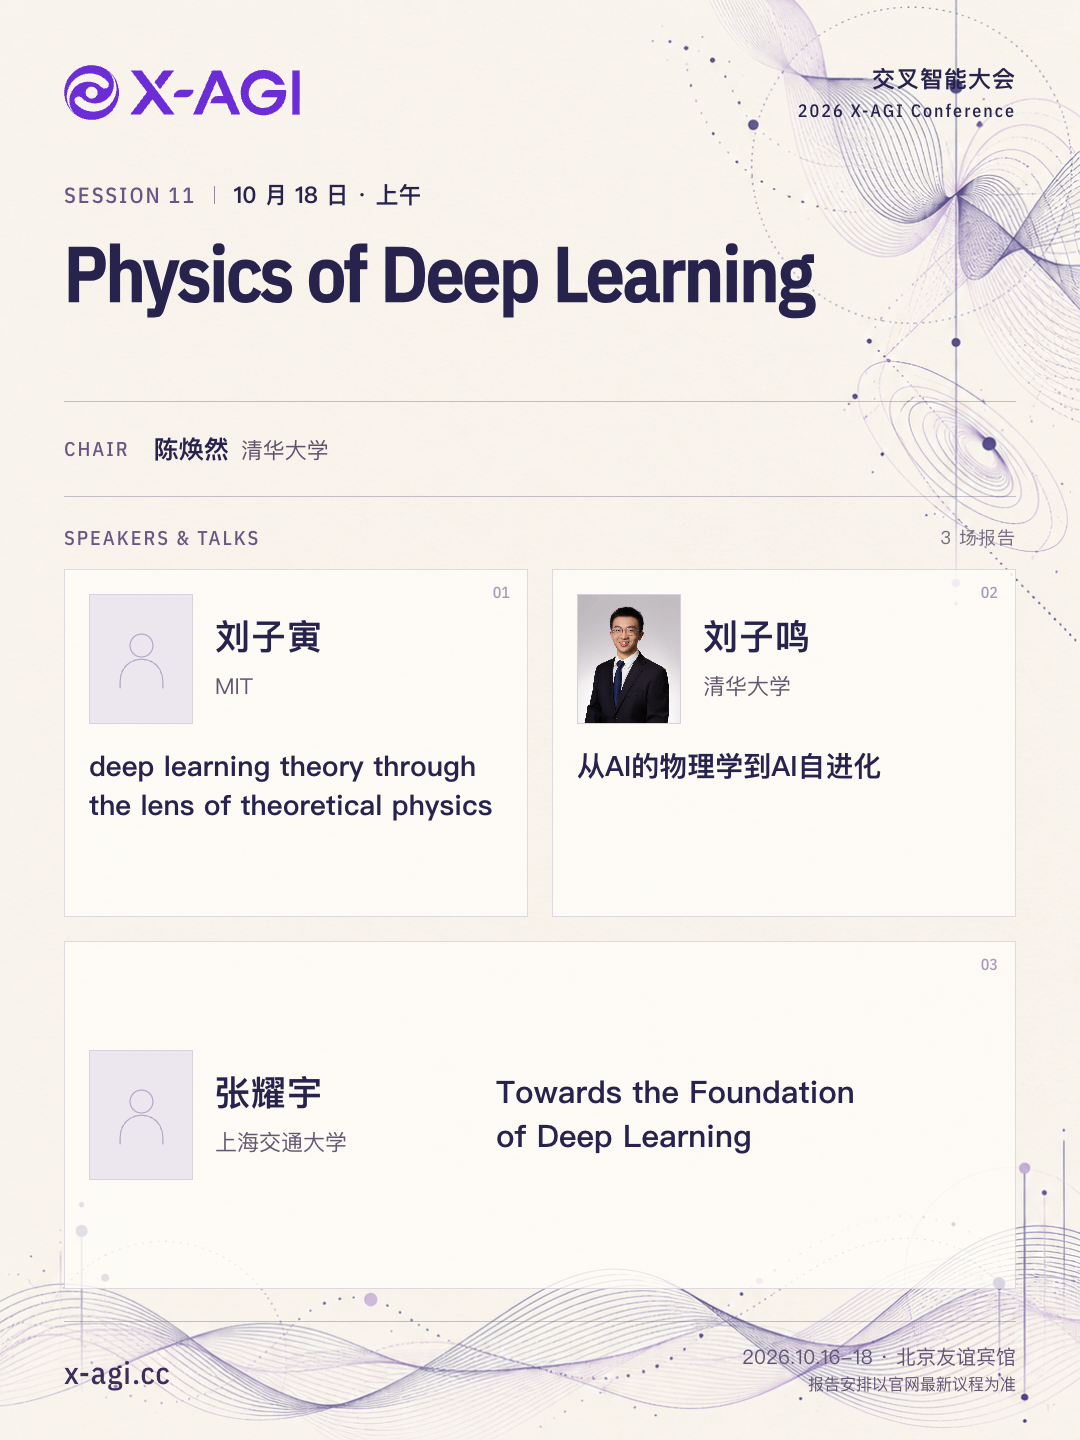
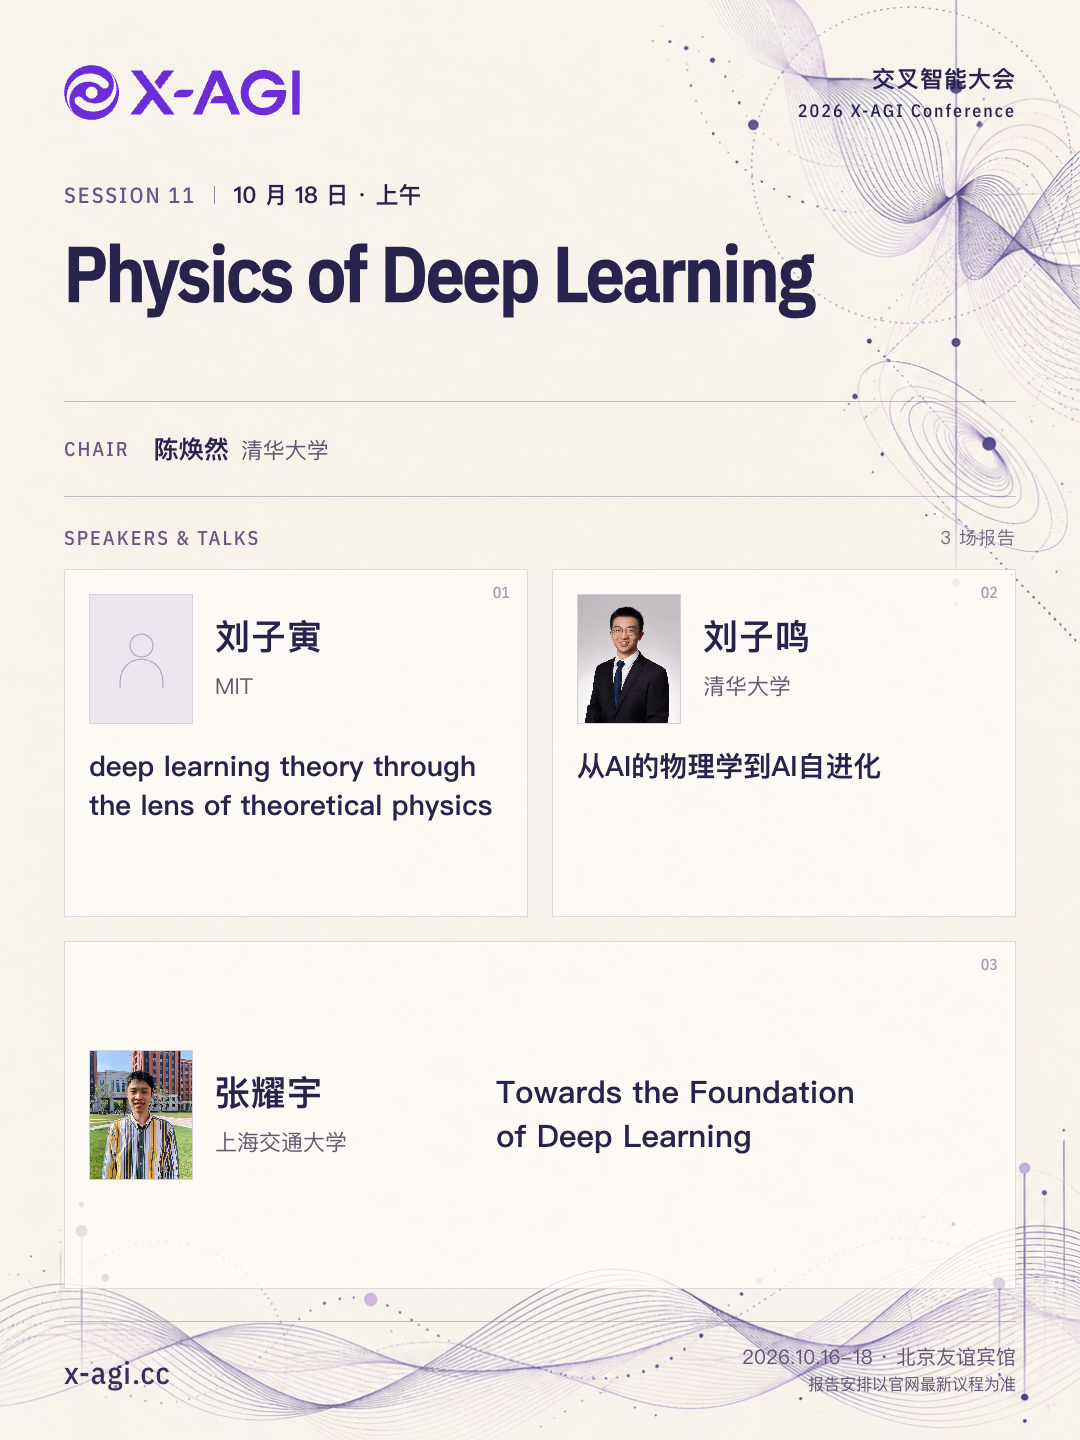
Complete attendee profiles and reconcile the official program (#35)

Changed region(s): [[0.0611, 0.7188, 0.1833, 0.8438]]

diff --git a/src/data/conference2026-people.generated.ts b/src/data/conference2026-people.generated.ts
@@ -20,7 +20,7 @@ export type Conference2026PersonSourceRecord = {
 
 export const conference2026PeopleSource = {
   "sheetName": "2026 X-AGI 大会",
[2 lines of base64/hex data omitted]
   "people": [
     {
       "id": "mao-xiaojie",
@@ -664,6 +664,34 @@ export const conference2026PeopleSource = {
       "abstract": "基于国内各类层次高校落地实践经验，聚焦未来学习中心核心场景，系统探究AGI技术在高校教学赋能、师生交互、教学评价督导、智慧终端应用中的落地路径。结合高校样板间打造、产品迭代优化与场景规模化复制的实战案例，剖析AI教育产品在高等教育场景中的适配逻辑、算力管控方案与落地难点，总结AGI赋能高等教育的有效范式。同时辩证思考人工智能教育应用的边界与价值，平衡技术创新与教育本质，为新时代高校AI教育生态建设、未来学习中心标准化落地与全域推广提供可落地、可复制的实践参考与行业新思路。",
       "hasSubmittedPortrait": true,
       "sourceOrder": 43
+    },
+    {
+      "id": "lu-yiping",
+      "name": "陆一平",
+      "aliases": [],
+      "roles": [
+        "chair"
+      ],
+      "affiliation": "北京大学",
+      "department": "国际数学研究中心",
+      "bio": "陆一平，北京大学北京国际数学研究中心助理教授。2019年本科毕业于北京大学应用数学专业，2023年于斯坦福大学获得应用数学博士学位；曾任纽约大学柯朗研究所柯朗讲师、美国西北大学工业工程与管理科学系助理教授。 他的研究主要聚焦于微分方程与深度学习的交叉领域，致力于将微分方程、随机过程和控制理论等经典领域与机器学习及随机实验进行深度融合。其代表性成果包括建立了微分方程与深度学习的联系，科学机器学习的最优样本复杂度，并于近期成功解决了困扰学术界长达35年的关于带符号BAR解（signed BAR solutions）唯一性的经典难题。 他曾获得 CPAL 新星奖、芝加哥大学数据科学新星奖、斯坦福跨学科研究生奖学金等多项荣誉，并长期担任 ICML、NeurIPS、ICLR 、 AISTATS 和AAAI等国际顶级机器学习会议的领域主席以及运筹学顶级期刊Mathematics of Operations Research的副编辑。",
+      "hasSubmittedPortrait": true,
+      "sourceOrder": 44
+    },
+    {
+      "id": "zhang-yaoyu",
+      "name": "张耀宇",
+      "aliases": [],
+      "roles": [
+        "speaker"
+      ],
+      "affiliation": "上海交通大学",
+      "department": "自然科学研究院、数学科学学院",
+      "bio": "张耀宇，上海交通大学长聘教轨副教授，2012年于上海交通大学致远学院获应用物理学学士学位及应用数学第二专业，2016年于上海交通大学数学科学学院获数学博士学位，2016年至2020年先后于纽约大学阿布扎比分校&库朗研究所、普林斯顿高等研究院从事博士后研究工作，2020年加入上海交通大学。他的研究领域聚焦深度学习的理论基础，代表性成果包括深度学习的凝聚现象与动力学态的相图分析、损失景观的嵌入原则、样本效率的乐观估计等。相关工作发表于JMLR、M3AS、SIMODS、NeurIPS、ICML等机器学习和应用数学权威期刊和会议，并合著出版《深度学习现象导论：从感知机到大模型》。",
+      "talkTitle": "towards the foundation of deep learning",
+      "abstract": "深度学习在过去十余年取得了令人瞩目的进展，但我们对其基本工作原理的理解仍远落后于工程实践。面对神经网络这样高度非线性、高维、强耦合的复杂系统，仅依赖自上而下的理论推导往往难以识别真正关键的结构与规律。本报告将从“现象驱动”的视角讨论深度学习基础研究的一种可能路径：通过简单、可控的实验系统观察训练过程，发现稳定且可复现的行为规律，构造合适的描述量，并进一步研究这些现象的适用边界、相互联系及其背后的机制。结合若干深度学习与语言模型中的代表性案例，我将讨论实验与现象研究如何作为一种相对独立的科学实践，与数学理论和工程研究相互促进，并进一步思考这些零散现象如何逐步汇聚成对深度学习更系统的理解。",
+      "hasSubmittedPortrait": true,
+      "sourceOrder": 45
     }
   ]
 } as const satisfies {

diff --git a/src/data/conference2026-people.test.ts b/src/data/conference2026-people.test.ts
@@ -8,18 +8,18 @@ import {
 
 describe('2026 public Chair and Speaker profiles', () => {
   it('publishes the reviewed public-only workbook projection', () => {
-    assert.equal(conference2026PeopleRecords.length, 44);
+    assert.equal(conference2026PeopleRecords.length, 46);
     assert.equal(
       conference2026PeopleRecords.filter((person) => person.roles.includes('chair')).length,
-      8,
+      9,
     );
     assert.equal(
       conference2026PeopleRecords.filter((person) => person.roles.includes('speaker')).length,
-      37,
+      38,
     );
     assert.equal(
       conference2026PeopleRecords.filter((person) => person.hasSubmittedPortrait).length,
-      38,
+      40,
     );
     assert.equal(
       new Set(conference2026PeopleRecords.map((person) => person.id)).size,

diff --git a/docs/attendee-reconciliation-20260917.md b/docs/attendee-reconciliation-20260917.md
@@ -1,0 +1,36 @@
+# 2026 嘉宾报名资料复核
+
+复核日期：2026-09-17。
+本次对照用户提供的 `attendee-list (2).xls`，检查官网嘉宾资料、头像以及专题和演讲顺序。
+报名原表保留在用户提供的位置，不进入仓库或网站。
+
+## 数据来源与顺序
+
+报名表的公开 Chair / Speaker 资料共对应 46 位嘉宾。
+导入仅使用现有同步脚本允许的公开姓名、角色、单位、院系、简介、报告题目、摘要和头像字段。
+其中 9 位填写 Chair，38 位填写 Speaker，一位填写两种角色。
+日程角色另由正式议程补全，例如陆一平在专题 07 中兼任主席与讲者。
+
+该报名导出没有专题编号、演讲时段或演讲顺序列，因此报名行序不作为演讲排序依据。
+本次重新读取腾讯文档 [X-AGI 2026 嘉宾信息](https://docs.qq.com/sheet/DUnZzaE5Ia2pVRHRj?tab=BB08J2) 的 `工作表1`。
+14 个专题的时间、标题、主席、讲者及报告题目均与当前官网一致。
+专题 07 的讲者顺序为史作强、周沛劼、陆一平、焦雨领，与最新腾讯表一致。
+本次保留已经同步的正式日程顺序，报告题目仍优先使用腾讯日程表。
+
+## 本次更新
+
+原有 44 位嘉宾的公开文字资料与新表一致。
+新表增加陆一平、张耀宇的公开资料及头像，已通过 `people:sync` 导入。
+陆一平补齐简介、单位与头像，张耀宇补齐简介、单位、摘要与头像。
+原有 38 张头像与新表提供的图片一致，新增两张后共有 40 张头像、6 个占位。
+头像归档前移除嵌入的私有元数据，并保留图像内容。
+网页头像由归档原图生成，保持现有 640×640 WebP 规格。
+专题 07 和专题 11 的海报随新增头像重新导出，全部 14 张海报重新校验。
+
+## 验证凭据
+
+公开资料、头像和顺序的核对结果保存在忽略的 `output/attendee-audit-20260917/`。
+127 项单元测试、Astro 类型检查、源素材和海报一致性检查以及静态构建校验通过。
+1440、390、320 像素宽度下的 18 项本地浏览器检查覆盖全部专题顺序、两位新增嘉宾的原生详情展开与头像，以及专题 07、11 的海报入口。
+全部 46 位嘉宾在页面中的公开资料字段与导入结果一致。
+本地与生产检查分别记录，发布状态以合并提交、CI 和公网文件哈希校验为准。
